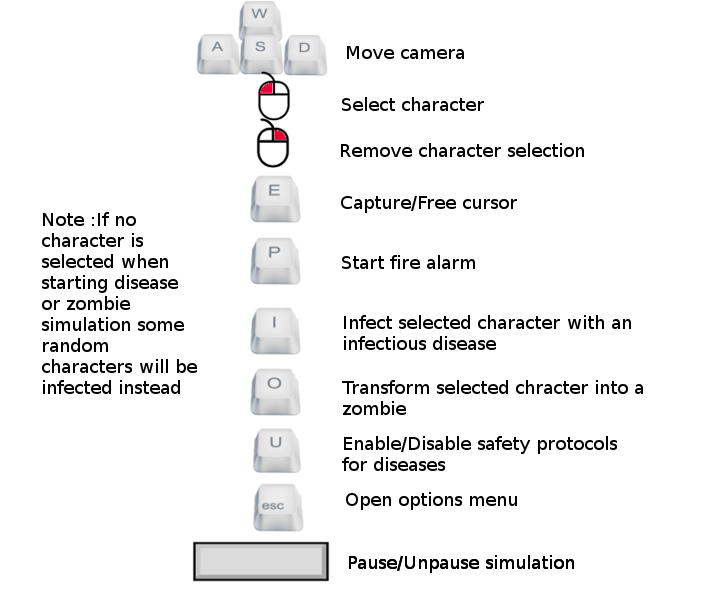
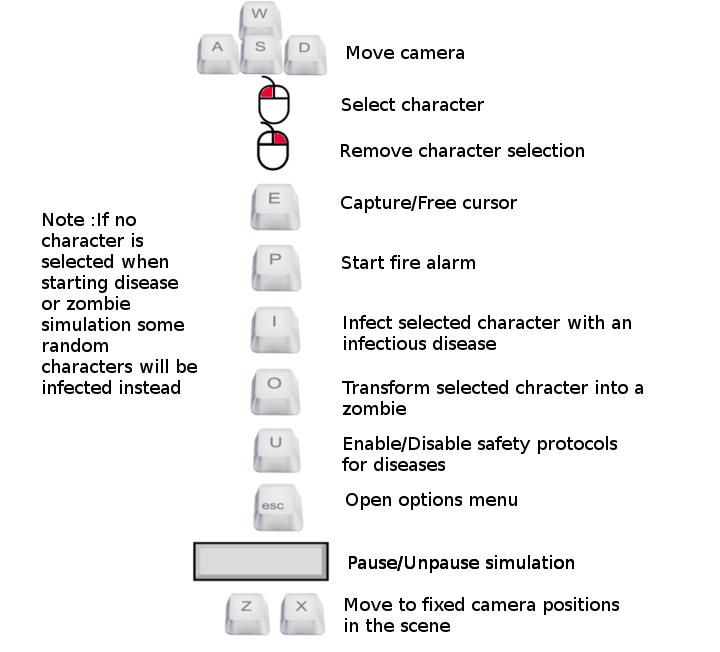
Added fixed camera positions option

diff --git a/Assets/Scripts/UI/InputComponent.cs b/Assets/Scripts/UI/InputComponent.cs
@@ -10,7 +10,9 @@ public class InputComponent : MonoBehaviour
     public AgentUI agUI;
     private FreeCamera freeCam;
     private FollowCamera followCam;
+    public GameObject cameraPositions;
     private bool pause = false, freeCursor = true;
+    private int positionIndex = 0;
     
     void Start()
     {
@@ -82,6 +84,26 @@ public class InputComponent : MonoBehaviour
         else if (Input.GetKeyDown(KeyCode.Escape))
         {
             toggleOptionsMenu();
+        }
+        else if (Input.GetKeyDown(KeyCode.Z))
+        {
+            if (!freeCam.active)
+                return;
+            positionIndex++;
+            if (positionIndex >= cameraPositions.transform.childCount)
+                positionIndex = 0;
+            Camera.main.transform.position = cameraPositions.transform.GetChild(positionIndex).transform.position;
+            Camera.main.transform.rotation = cameraPositions.transform.GetChild(positionIndex).rotation;
+        }
+        else if (Input.GetKeyDown(KeyCode.X))
+        {
+            if (!freeCam.active)
+                return;
+            positionIndex--;
+            if (positionIndex < 0)
+                positionIndex = cameraPositions.transform.childCount - 1;
+            Camera.main.transform.position = cameraPositions.transform.GetChild(positionIndex).transform.position;
+            Camera.main.transform.rotation = cameraPositions.transform.GetChild(positionIndex).rotation;
         }
     }
     
